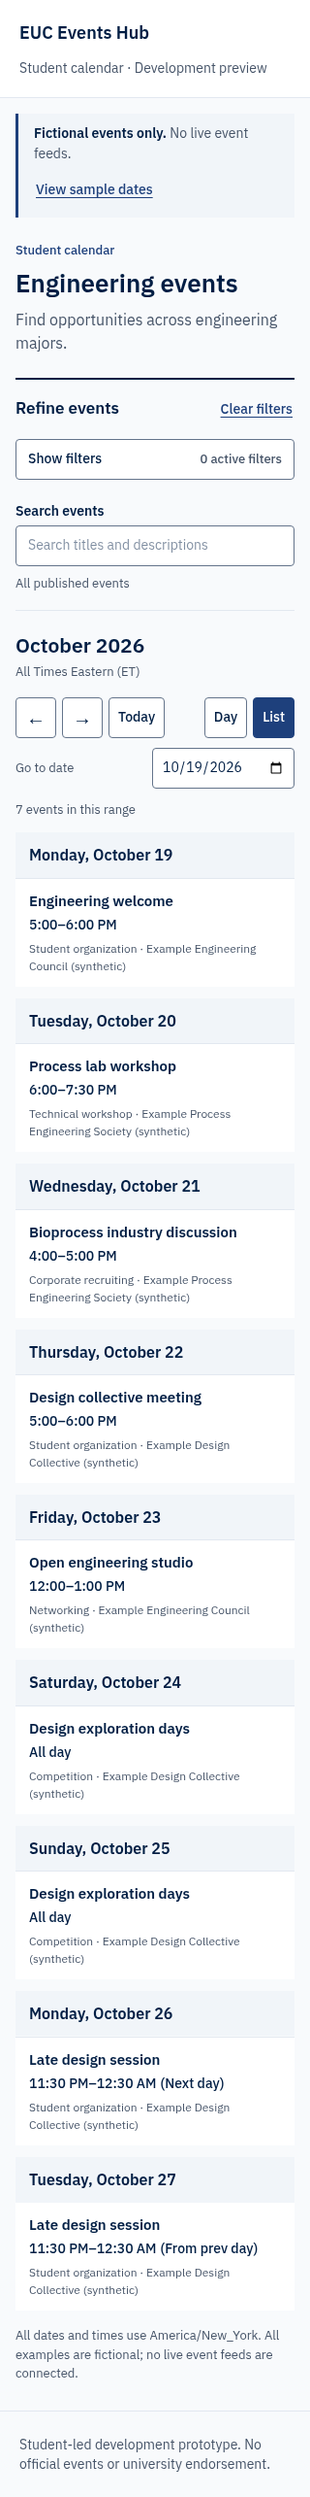
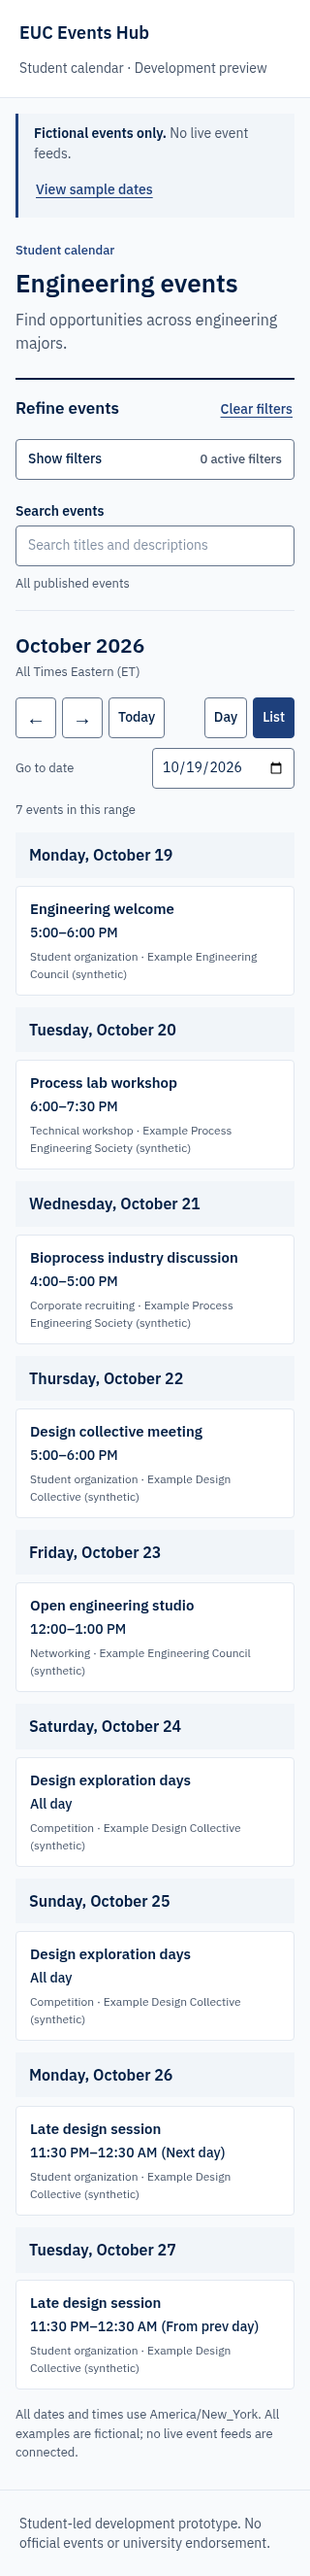
Restore subtle event-card borders within shared day groups

diff --git a/tests/student-calendar.spec.ts b/tests/student-calendar.spec.ts
@@ -547,8 +547,16 @@ for (const width of [320, 375, 430, 768]) {
         time: style(".list-event-times").fontSize,
         timeWeight: style(".list-event-times").fontWeight,
         metadata: style(".event-category").fontSize,
-        divider: style(".fc-list-event-title").borderTopWidth,
-        bottomBorder: style(".fc-list-event-title").borderBottomWidth,
+        divider: style(".mobile-list-event").borderTopWidth,
+        bottomBorder: style(".mobile-list-event").borderBottomWidth,
+        leftBorder: style(".mobile-list-event").borderLeftWidth,
+        rightBorder: style(".mobile-list-event").borderRightWidth,
+        radius: style(".mobile-list-event").borderRadius,
+        cardPadding: style(".mobile-list-event").padding,
+        itemGap: style(".fc-list-event-title").paddingTop,
+        cardSurface: style(".mobile-list-event").backgroundColor,
+        pageSurface: style(".fc-list").backgroundColor,
+        shadow: style(".mobile-list-event").boxShadow,
       };
     });
     expect(styles).toEqual({
@@ -560,8 +568,26 @@ for (const width of [320, 375, 430, 768]) {
       timeWeight: "500",
       metadata: "12px",
       divider: "1px",
-      bottomBorder: "0px",
+      bottomBorder: "1px",
+      leftBorder: "1px",
+      rightBorder: "1px",
+      radius: "4px",
+      cardPadding: "12px 14px",
+      itemGap: "8px",
+      cardSurface: "rgb(255, 255, 255)",
+      pageSurface: "rgb(248, 250, 252)",
+      shadow: "none",
     });
+    const panelBox = await rows.nth(1).boundingBox();
+    const workshopBox = await rows.nth(2).boundingBox();
+    expect(workshopBox!.y - (panelBox!.y + panelBox!.height)).toBe(8);
+    const previousDayBox = await rows.nth(0).boundingBox();
+    const nextHeaderBox = await group
+      .locator(".fc-list-day-cushion")
+      .boundingBox();
+    expect(
+      nextHeaderBox!.y - (previousDayBox!.y + previousDayBox!.height),
+    ).toBe(12);
     expect(
       await page.evaluate(
         () => document.documentElement.scrollWidth <= innerWidth,

diff --git a/app/globals.css b/app/globals.css
@@ -713,7 +713,7 @@ button.control[aria-pressed="true"] {
   border-bottom: 0;
 }
 .mobile-calendar .fc .fc-list-event {
-  background: var(--color-surface);
+  background: transparent;
 }
 .mobile-calendar .fc .fc-list-day:not(:first-child) th {
   border-top: 12px solid var(--color-background);
@@ -728,7 +728,18 @@ button.control[aria-pressed="true"] {
   font-weight: 600;
 }
 .mobile-calendar .fc .fc-list-event-title {
+  padding: 8px 0 0;
+  border: 0;
+}
+.mobile-calendar .fc .mobile-list-event {
   padding: 12px 14px;
-  border-top: 1px solid var(--color-border);
-  border-bottom: 0;
+  border: 1px solid var(--color-border);
+  border-radius: var(--radius-control);
+  background: var(--color-surface);
+}
+.mobile-calendar .fc .fc-list-event:hover td {
+  background: transparent;
+}
+.mobile-calendar .fc .mobile-list-event:hover {
+  background: var(--color-surface-muted);
 }

diff --git a/README.md b/README.md
@@ -25,7 +25,7 @@ npm run build
 
 ## Student calendar
 
-The home page supports month, week, day, and chronological list views; previous/next/today navigation; a date jump; and published-only event details. Below 1024px, the default is a chronological month list with an optional day view. Below 1024px, filters collapse behind a labeled control showing the active-filter count. On desktop the sidebar stays visible. Majors, Organizations, and Event categories expand independently and retain selections. The count includes Recommended mode, majors used by that mode, organizations, categories, and nonempty search; majors saved in All Events do not affect results or the count. Mobile chronological lists share a weekday and full-month date header per day without repeating the year within a single-year range (cross-year displayed ranges include years). Date headers use 16px semibold text and 12px separation between day groups across mobile and tablet. Connected event rows use subtle dividers and show 15px semibold titles, 14px medium-weight times, and 12px muted category/host information. Overnight rows use Next day or From prev day cues; event details retain full dates. All displayed dates, times, week boundaries, and navigation use `America/New_York`, independently of the browser time zone.
+The home page supports month, week, day, and chronological list views; previous/next/today navigation; a date jump; and published-only event details. Below 1024px, the default is a chronological month list with an optional day view. Below 1024px, filters collapse behind a labeled control showing the active-filter count. On desktop the sidebar stays visible. Majors, Organizations, and Event categories expand independently and retain selections. The count includes Recommended mode, majors used by that mode, organizations, categories, and nonempty search; majors saved in All Events do not affect results or the count. Mobile chronological lists share a weekday and full-month date header per day without repeating the year within a single-year range (cross-year displayed ranges include years). Date headers use 16px semibold text and 12px separation between day groups across mobile and tablet. Individual event items use a subtle 1px border, white surface, 4px radius, 12px/14px padding, and an 8px gap within each shared date group. They show 15px semibold titles, 14px medium-weight times, and 12px muted category/host information. Overnight rows use Next day or From prev day cues; event details retain full dates. All displayed dates, times, week boundaries, and navigation use `America/New_York`, independently of the browser time zone.
 
 Use All Events to browse every published event, including unclassified examples. Recommended Events uses the selected majors and includes college-wide, explicitly targeted, and inherited host-audience events. Organization and category selections narrow results independently; search matches event titles and descriptions, ignoring case and surrounding whitespace. Clear filters returns to All Events and clears major, host, category, and search selections while preserving date and view.
 
